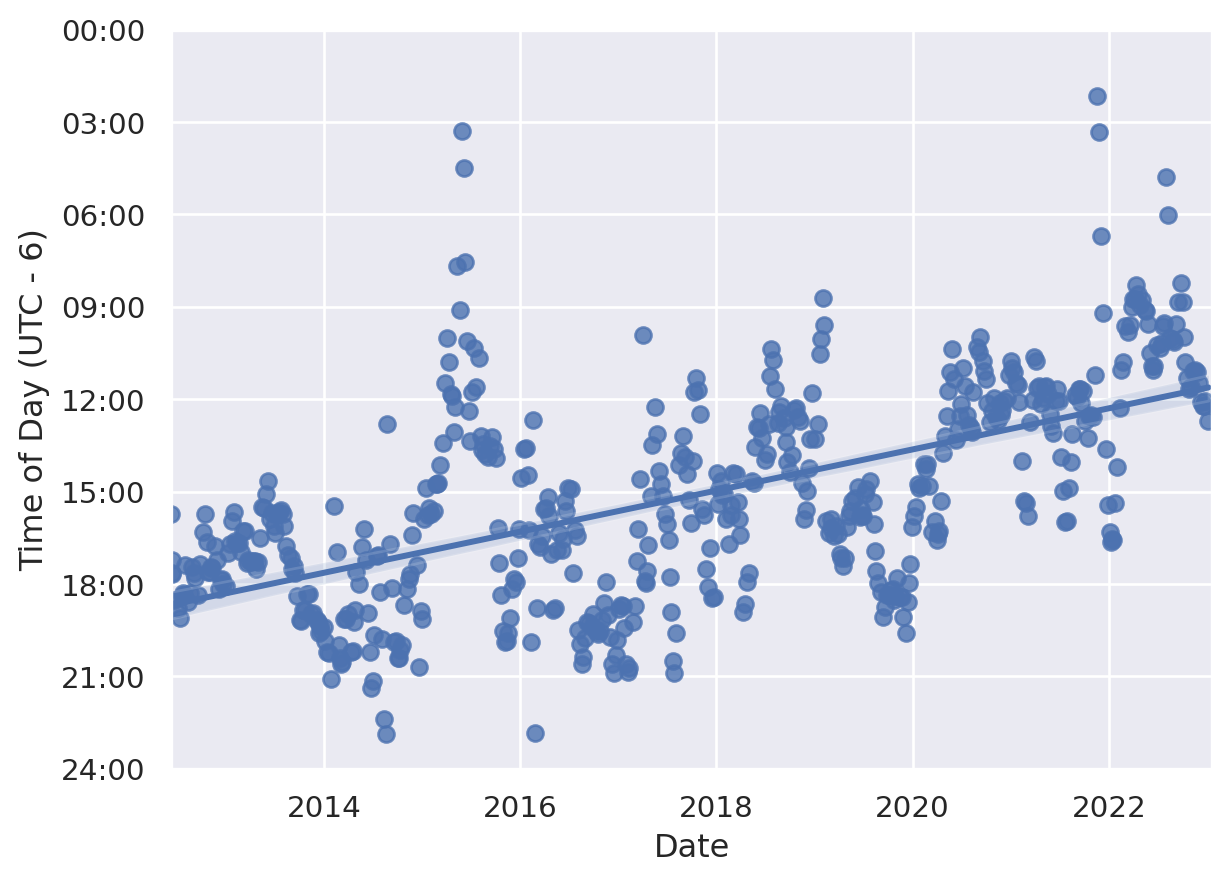
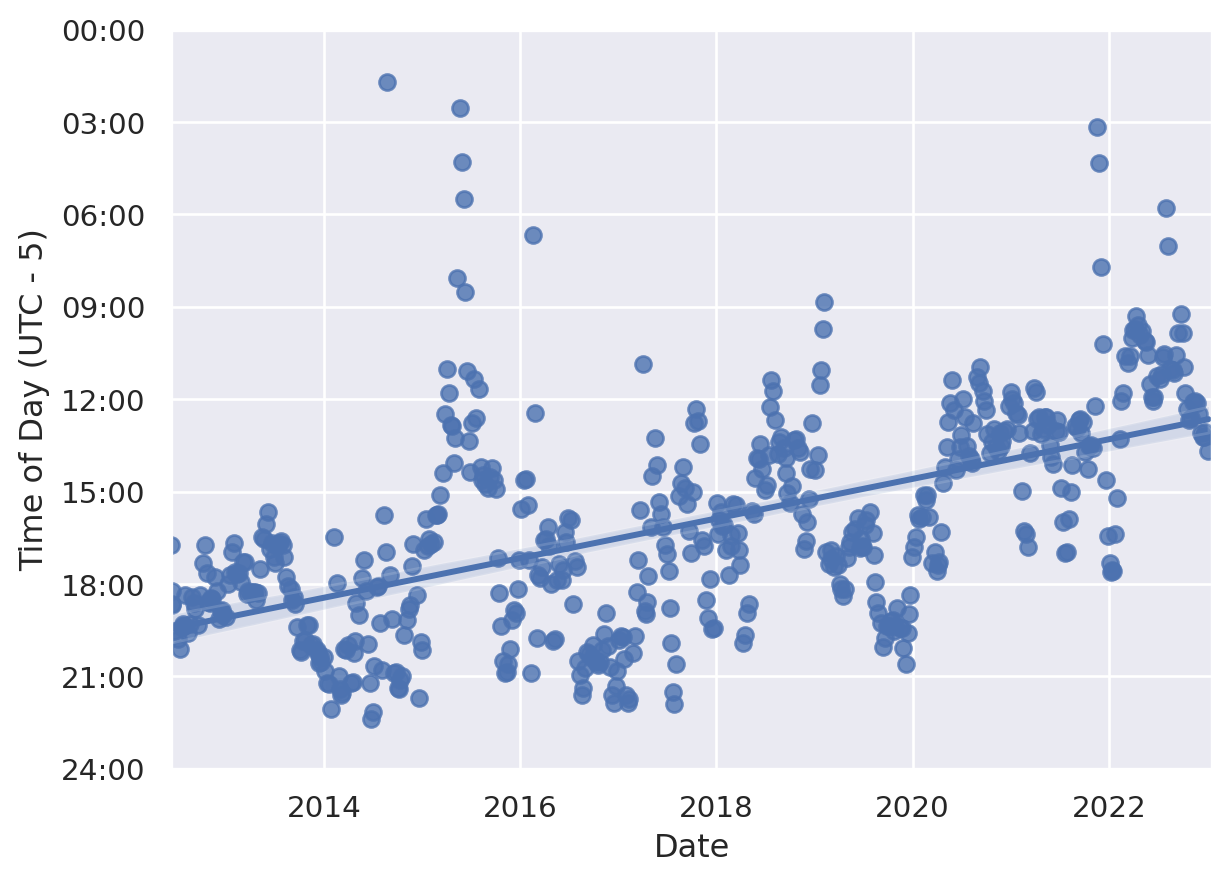
Built site for gh-pages

diff --git a/time.html b/time.html
@@ -265,7 +265,7 @@ code span.wa { color: #60a0b0; font-weight: bold; font-style: italic; } /* Warni
 <div class="cell" data-execution_count="2">
 <details open="">
 <summary>Code</summary>
-<div class="sourceCode cell-code" id="cb2"><pre class="sourceCode python code-with-copy"><code class="sourceCode python"><span id="cb2-1"><a href="#cb2-1" aria-hidden="true" tabindex="-1"></a>offset <span class="op">=</span> <span class="dv">6</span> <span class="op">*</span> units.HOUR</span>
+<div class="sourceCode cell-code" id="cb2"><pre class="sourceCode python code-with-copy"><code class="sourceCode python"><span id="cb2-1"><a href="#cb2-1" aria-hidden="true" tabindex="-1"></a>offset <span class="op">=</span> <span class="dv">5</span> <span class="op">*</span> units.HOUR</span>
 <span id="cb2-2"><a href="#cb2-2" aria-hidden="true" tabindex="-1"></a>fig, ax <span class="op">=</span> plt.subplots(<span class="dv">1</span>)</span>
 <span id="cb2-3"><a href="#cb2-3" aria-hidden="true" tabindex="-1"></a>nbins <span class="op">=</span> <span class="bu">int</span>(units.DAY <span class="op">/</span> <span class="dv">30</span>)</span>
 <span id="cb2-4"><a href="#cb2-4" aria-hidden="true" tabindex="-1"></a>counts[<span class="st">'time'</span>] <span class="op">=</span> (counts[<span class="st">'timestamp'</span>] <span class="op">-</span> offset) <span class="op">%</span> units.DAY</span>
@@ -281,7 +281,7 @@ code span.wa { color: #60a0b0; font-weight: bold; font-style: italic; } /* Warni
 <span id="cb2-14"><a href="#cb2-14" aria-hidden="true" tabindex="-1"></a>    ax.set_xticks(ticks)</span>
 <span id="cb2-15"><a href="#cb2-15" aria-hidden="true" tabindex="-1"></a>    ax.set_xticklabels(labels)</span>
 <span id="cb2-16"><a href="#cb2-16" aria-hidden="true" tabindex="-1"></a>    ax.set_ylim(bottom<span class="op">=</span><span class="dv">0</span>)</span>
-<span id="cb2-17"><a href="#cb2-17" aria-hidden="true" tabindex="-1"></a>    ax.set_xlabel(<span class="st">"Time of day (UTC - 6)"</span>)</span>
+<span id="cb2-17"><a href="#cb2-17" aria-hidden="true" tabindex="-1"></a>    ax.set_xlabel(<span class="st">"Time of day (UTC - 5)"</span>)</span>
 <span id="cb2-18"><a href="#cb2-18" aria-hidden="true" tabindex="-1"></a>ax.set_ylabel(<span class="st">"Average rate [counts/minute]"</span>)</span>
 <span id="cb2-19"><a href="#cb2-19" aria-hidden="true" tabindex="-1"></a>prettify(ax)</span></code><button title="Copy to Clipboard" class="code-copy-button"><i class="bi"></i></button></pre></div>
 </details>
@@ -321,7 +321,7 @@ code span.wa { color: #60a0b0; font-weight: bold; font-style: italic; } /* Warni
 <span id="cb5-10"><a href="#cb5-10" aria-hidden="true" tabindex="-1"></a>combined <span class="op">=</span> head.to_frame(<span class="st">"variation"</span>).join(pd.DataFrame(top_counters).reset_index().set_index(<span class="dv">0</span>))</span>
 <span id="cb5-11"><a href="#cb5-11" aria-hidden="true" tabindex="-1"></a>Markdown(combined.to_markdown(headers<span class="op">=</span>[<span class="st">"**Counter**"</span>, <span class="st">"**Time of day variation**"</span>, <span class="st">"**HOC position**"</span>], floatfmt<span class="op">=</span><span class="st">".0f"</span>))</span></code><button title="Copy to Clipboard" class="code-copy-button"><i class="bi"></i></button></pre></div>
 </details>
-<div class="cell-output cell-output-display" data-execution_count="4">
+<div class="cell-output cell-output-display" data-execution_count="22">
 <div id="tbl-variation" class="anchored">
 <table class="table table-sm table-striped">
 <caption>Table&nbsp;1: The most and least regular counters</caption>
@@ -416,7 +416,7 @@ code span.wa { color: #60a0b0; font-weight: bold; font-style: italic; } /* Warni
 <span id="cb7-20"><a href="#cb7-20" aria-hidden="true" tabindex="-1"></a>    ax.set_yticklabels(labels)</span>
 <span id="cb7-21"><a href="#cb7-21" aria-hidden="true" tabindex="-1"></a>    ax.set_ylim([<span class="dv">0</span>, units.DAY])</span>
 <span id="cb7-22"><a href="#cb7-22" aria-hidden="true" tabindex="-1"></a>    ax.set_xlabel(<span class="st">"Date"</span>)</span>
-<span id="cb7-23"><a href="#cb7-23" aria-hidden="true" tabindex="-1"></a>    ax.set_ylabel(<span class="st">"Time of Day (UTC - 6)"</span>)</span>
+<span id="cb7-23"><a href="#cb7-23" aria-hidden="true" tabindex="-1"></a>    ax.set_ylabel(<span class="st">"Time of Day (UTC - 5)"</span>)</span>
 <span id="cb7-24"><a href="#cb7-24" aria-hidden="true" tabindex="-1"></a>prettify_timeseries(ax)</span></code><button title="Copy to Clipboard" class="code-copy-button"><i class="bi"></i></button></pre></div>
 </details>
 <div class="cell-output cell-output-display">
@@ -429,8 +429,8 @@ code span.wa { color: #60a0b0; font-weight: bold; font-style: italic; } /* Warni
 </div>
 </div>
 <p>The plot is a bit difficult to follow, and that’s kind of the point - it’s trying to cram a lot of data into not very many pixels. On the right, you can see the global time of day distribution; tht’s basically the same as what’s plotted in <em>fig-kde</em>, but stretched out a bit. On top, you can see the overall counting rate which is very spiky. You can see how the rate was basically zero in 2012; and and then was higher but still low until late 2015 where it shot up. In 2016 and 2017 the rate was high, but gradually falling, reaching a minimum in late 2017, followed by an increase to very high levels in late 2019. Since then, the rate has generally been much lower, but with two important peaks.</p>
-<p>Turning to the joint plot, it tries to show both of these things at the same time. It’s illustrative perhaps to compare the counting activity in early 2016 with that in early 2020. The top histogram shows that the counting rates at these two times was roughly similar, but the main chart reveals that how these counts took place was very different. In 2016, the counting activity was spread out throughout the day, with a small dip between 03:00 and 06:00. In 2020, there was a pronounced peak of activity between 12:00 and 18:00, a smaller peak centered at 03:00 and much less activity throughout the rest of the day.</p>
-<p>We can also look at the peak in early 2021. This one shows a lot of activity from 09:00 to 16:00, with a small dip at around 12:00. Perhaps one of the people involved had to go for lunch.</p>
+<p>Turning to the joint plot, it tries to show both of these things at the same time. It’s illustrative perhaps to compare the counting activity in early 2016 with that in early 2020. The top histogram shows that the counting rates at these two times was roughly similar, but the main chart reveals that how these counts took place was very different. In 2016, the counting activity was spread out throughout the day, with a small dip between 04:00 and 07:00. In 2020, there was a pronounced peak of activity between 13:00 and 18:00, a smaller peak centered at 04:00 and much less activity throughout the rest of the day.</p>
+<p>We can also look at the peak in early 2021. This one shows a lot of activity from 10:00 to 17:00, with a small dip at around 12:00. Perhaps one of the people involved had to go for lunch.</p>
 <section id="summary-statistics-and-the-circular-mean" class="level3">
 <h3 class="anchored" data-anchor-id="summary-statistics-and-the-circular-mean">Summary statistics and the circular mean</h3>
 <p>Creating and looking at the hexbin plot let us confirm the fact that just showing the average distribution hides a lot of structure. In particular, we can see that</p>
@@ -452,7 +452,7 @@ code span.wa { color: #60a0b0; font-weight: bold; font-style: italic; } /* Warni
 <span id="cb8-4"><a href="#cb8-4" aria-hidden="true" tabindex="-1"></a><span class="bu">print</span>(<span class="ss">f"The mean of the overall distribution is </span><span class="sc">{</span><span class="bu">int</span>(hour)<span class="sc">:02d}</span><span class="ss">:</span><span class="sc">{</span><span class="bu">int</span>(minute)<span class="sc">:02d}</span><span class="ss">"</span>)</span></code><button title="Copy to Clipboard" class="code-copy-button"><i class="bi"></i></button></pre></div>
 </details>
 <div class="cell-output cell-output-stdout">
-<pre><code>The mean of the overall distribution is 15:33</code></pre>
+<pre><code>The mean of the overall distribution is 16:33</code></pre>
 </div>
 </div>
 <p>That seems reasonable - it’s inside the broad afternoon peak of activity, but slightly to the right, since there’s more activity in the evening than in the early morning.</p>
@@ -483,8 +483,8 @@ code span.wa { color: #60a0b0; font-weight: bold; font-style: italic; } /* Warni
 <summary>Code</summary>
 <div class="sourceCode cell-code" id="cb11"><pre class="sourceCode python code-with-copy"><code class="sourceCode python"><span id="cb11-1"><a href="#cb11-1" aria-hidden="true" tabindex="-1"></a>  Markdown(<span class="ss">f"The average time has shifted by </span><span class="sc">{</span>np<span class="sc">.</span>polyfit(rolling[<span class="st">'numerical_date'</span>], rolling[<span class="st">'time_of_day'</span>], <span class="dv">1</span>)[<span class="dv">0</span>]<span class="sc">:.1f}</span><span class="ss"> seconds per day."</span>)</span></code><button title="Copy to Clipboard" class="code-copy-button"><i class="bi"></i></button></pre></div>
 </details>
-<div class="cell-output cell-output-display" data-execution_count="9">
-<p>The average time has shifted by -6.6 seconds per day.</p>
+<div class="cell-output cell-output-display" data-execution_count="27">
+<p>The average time has shifted by -6.3 seconds per day.</p>
 </div>
 </div>
 <p>This shift is not something that was at all apparent from <a href="#fig-hexbin">Figure&nbsp;2</a>, which shows the value of the summary statistic for revealing trends in the data.</p>
@@ -831,7 +831,7 @@ window.document.addEventListener("DOMContentLoaded", function (event) {
 <span id="cb12-37"><a href="#cb12-37" aria-hidden="true" tabindex="-1"></a><span class="in">```{python}</span></span>
 <span id="cb12-38"><a href="#cb12-38" aria-hidden="true" tabindex="-1"></a><span class="co">#| label: fig-kde</span></span>
 <span id="cb12-39"><a href="#cb12-39" aria-hidden="true" tabindex="-1"></a><span class="co">#| fig-cap: The average rate of counts at different times of day. The horizontal line shows the global average.</span></span>
-<span id="cb12-40"><a href="#cb12-40" aria-hidden="true" tabindex="-1"></a>offset <span class="op">=</span> <span class="dv">6</span> <span class="op">*</span> units.HOUR</span>
+<span id="cb12-40"><a href="#cb12-40" aria-hidden="true" tabindex="-1"></a>offset <span class="op">=</span> <span class="dv">5</span> <span class="op">*</span> units.HOUR</span>
 <span id="cb12-41"><a href="#cb12-41" aria-hidden="true" tabindex="-1"></a>fig, ax <span class="op">=</span> plt.subplots(<span class="dv">1</span>)</span>
 <span id="cb12-42"><a href="#cb12-42" aria-hidden="true" tabindex="-1"></a>nbins <span class="op">=</span> <span class="bu">int</span>(units.DAY <span class="op">/</span> <span class="dv">30</span>)</span>
 <span id="cb12-43"><a href="#cb12-43" aria-hidden="true" tabindex="-1"></a>counts[<span class="st">'time'</span>] <span class="op">=</span> (counts[<span class="st">'timestamp'</span>] <span class="op">-</span> offset) <span class="op">%</span> units.DAY</span>
@@ -847,7 +847,7 @@ window.document.addEventListener("DOMContentLoaded", function (event) {
 <span id="cb12-53"><a href="#cb12-53" aria-hidden="true" tabindex="-1"></a>    ax.set_xticks(ticks)</span>
 <span id="cb12-54"><a href="#cb12-54" aria-hidden="true" tabindex="-1"></a>    ax.set_xticklabels(labels)</span>
 <span id="cb12-55"><a href="#cb12-55" aria-hidden="true" tabindex="-1"></a>    ax.set_ylim(bottom<span class="op">=</span><span class="dv">0</span>)</span>
-<span id="cb12-56"><a href="#cb12-56" aria-hidden="true" tabindex="-1"></a>    ax.set_xlabel(<span class="st">"Time of day (UTC - 6)"</span>)</span>
+<span id="cb12-56"><a href="#cb12-56" aria-hidden="true" tabindex="-1"></a>    ax.set_xlabel(<span class="st">"Time of day (UTC - 5)"</span>)</span>
 <span id="cb12-57"><a href="#cb12-57" aria-hidden="true" tabindex="-1"></a>ax.set_ylabel(<span class="st">"Average rate [counts/minute]"</span>)</span>
 <span id="cb12-58"><a href="#cb12-58" aria-hidden="true" tabindex="-1"></a>prettify(ax)</span>
 <span id="cb12-59"><a href="#cb12-59" aria-hidden="true" tabindex="-1"></a></span>
@@ -927,15 +927,15 @@ window.document.addEventListener("DOMContentLoaded", function (event) {
 <span id="cb12-141"><a href="#cb12-141" aria-hidden="true" tabindex="-1"></a>    ax.set_yticklabels(labels)</span>
 <span id="cb12-142"><a href="#cb12-142" aria-hidden="true" tabindex="-1"></a>    ax.set_ylim([<span class="dv">0</span>, units.DAY])</span>
 <span id="cb12-143"><a href="#cb12-143" aria-hidden="true" tabindex="-1"></a>    ax.set_xlabel(<span class="st">"Date"</span>)</span>
-<span id="cb12-144"><a href="#cb12-144" aria-hidden="true" tabindex="-1"></a>    ax.set_ylabel(<span class="st">"Time of Day (UTC - 6)"</span>)</span>
+<span id="cb12-144"><a href="#cb12-144" aria-hidden="true" tabindex="-1"></a>    ax.set_ylabel(<span class="st">"Time of Day (UTC - 5)"</span>)</span>
 <span id="cb12-145"><a href="#cb12-145" aria-hidden="true" tabindex="-1"></a>prettify_timeseries(ax)</span>
 <span id="cb12-146"><a href="#cb12-146" aria-hidden="true" tabindex="-1"></a><span class="in">```</span></span>
 <span id="cb12-147"><a href="#cb12-147" aria-hidden="true" tabindex="-1"></a></span>
 <span id="cb12-148"><a href="#cb12-148" aria-hidden="true" tabindex="-1"></a>The plot is a bit difficult to follow, and that's kind of the point - it's trying to cram a lot of data into not very many pixels. On the right, you can see the global time of day distribution; tht's basically the same as what's plotted in *fig-kde*, but stretched out a bit. On top, you can see the overall counting rate which is very spiky. You can see how the rate was basically zero in 2012; and and then was higher but still low until late 2015 where it shot up. In 2016 and 2017 the rate was high, but gradually falling, reaching a minimum in late 2017, followed by an increase to very high levels in late 2019. Since then, the rate has generally been much lower, but with two important peaks.</span>
 <span id="cb12-149"><a href="#cb12-149" aria-hidden="true" tabindex="-1"></a></span>
-<span id="cb12-150"><a href="#cb12-150" aria-hidden="true" tabindex="-1"></a>Turning to the joint plot, it tries to show both of these things at the same time. It's illustrative perhaps to compare the counting activity in early 2016 with that in early 2020. The top histogram shows that the counting rates at these two times was roughly similar, but the main chart reveals that how these counts took place was very different. In 2016, the counting activity was spread out throughout the day, with a small dip between 03:00 and 06:00. In 2020, there was a pronounced peak of activity between 12:00 and 18:00, a smaller peak centered at 03:00 and much less activity throughout the rest of the day.</span>
+<span id="cb12-150"><a href="#cb12-150" aria-hidden="true" tabindex="-1"></a>Turning to the joint plot, it tries to show both of these things at the same time. It's illustrative perhaps to compare the counting activity in early 2016 with that in early 2020. The top histogram shows that the counting rates at these two times was roughly similar, but the main chart reveals that how these counts took place was very different. In 2016, the counting activity was spread out throughout the day, with a small dip between 04:00 and 07:00. In 2020, there was a pronounced peak of activity between 13:00 and 18:00, a smaller peak centered at 04:00 and much less activity throughout the rest of the day.</span>
 <span id="cb12-151"><a href="#cb12-151" aria-hidden="true" tabindex="-1"></a></span>
-<span id="cb12-152"><a href="#cb12-152" aria-hidden="true" tabindex="-1"></a>We can also look at the peak in early 2021. This one shows a lot of activity from 09:00 to 16:00, with a small dip at around 12:00. Perhaps one of the people involved had to go for lunch.</span>
+<span id="cb12-152"><a href="#cb12-152" aria-hidden="true" tabindex="-1"></a>We can also look at the peak in early 2021. This one shows a lot of activity from 10:00 to 17:00, with a small dip at around 12:00. Perhaps one of the people involved had to go for lunch.</span>
 <span id="cb12-153"><a href="#cb12-153" aria-hidden="true" tabindex="-1"></a></span>
 <span id="cb12-154"><a href="#cb12-154" aria-hidden="true" tabindex="-1"></a><span class="fu">### Summary statistics and the circular mean</span></span>
 <span id="cb12-155"><a href="#cb12-155" aria-hidden="true" tabindex="-1"></a></span>
